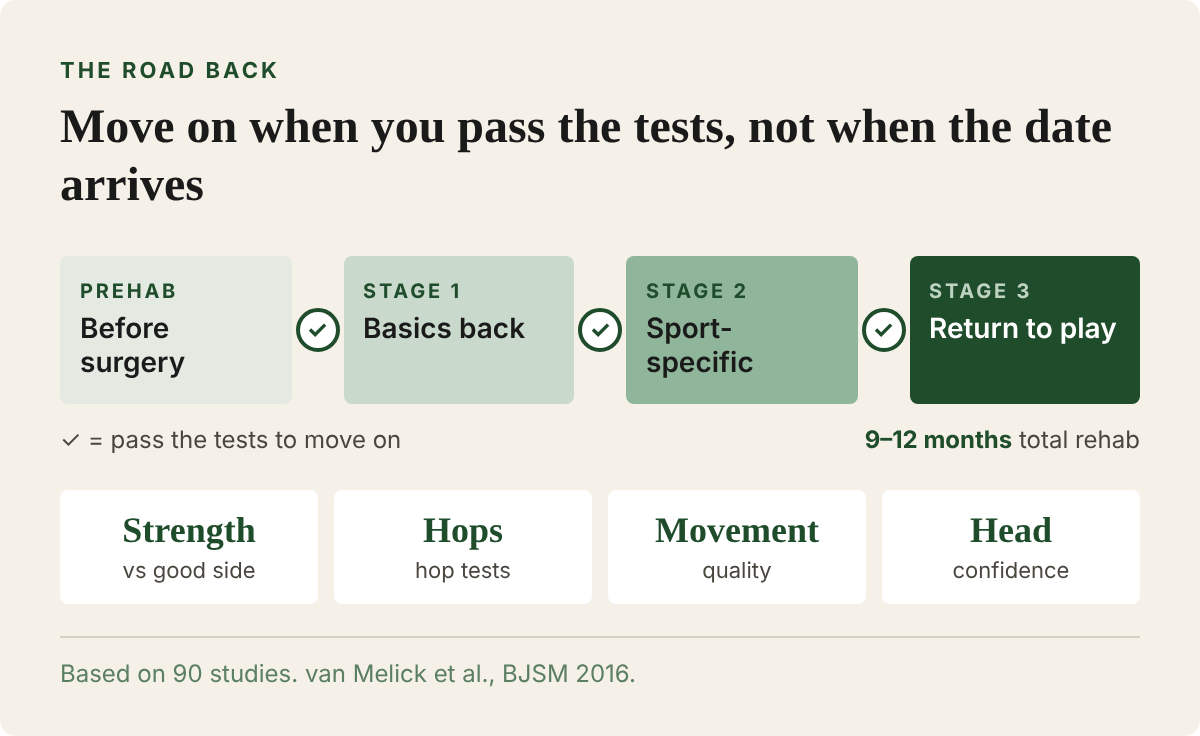
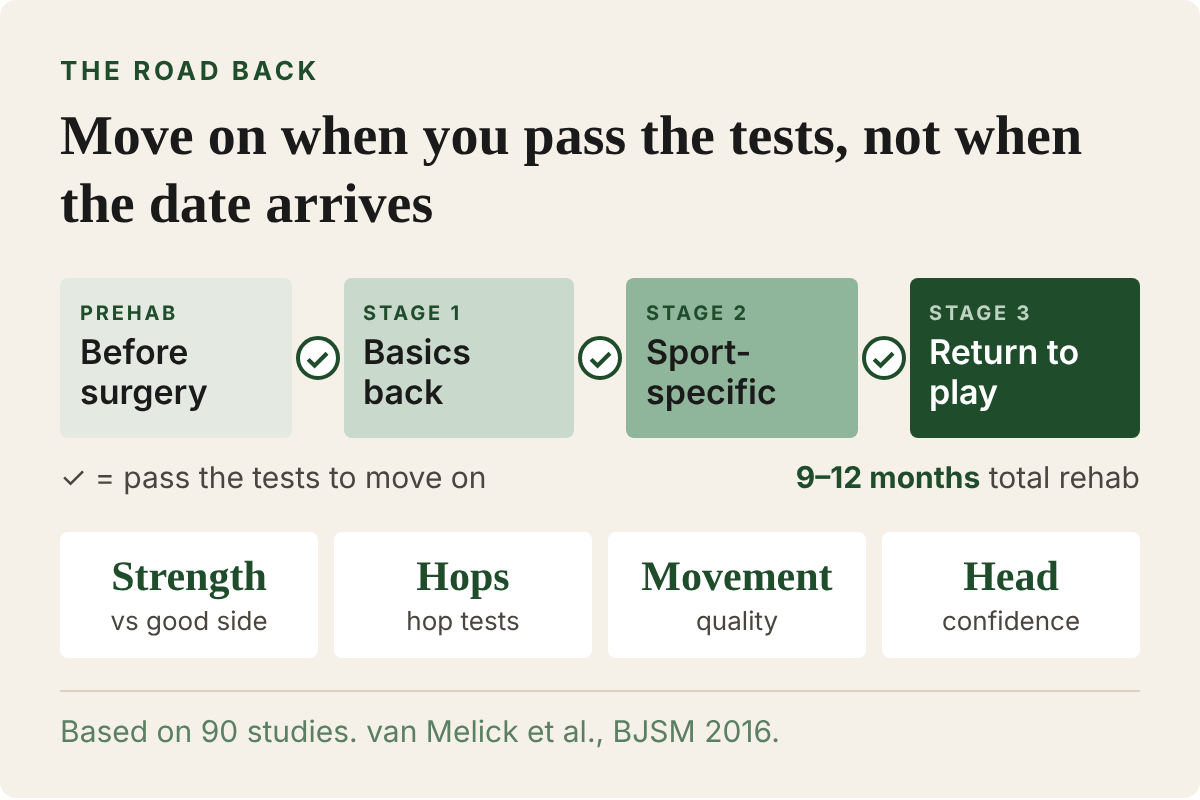
Larger chart text for phones; add image sources
Claude-Session: https://claude.ai/code/session_017txqQhaPq2UqQYvjJB2J49

diff --git a/source/chart-nordic.html b/source/chart-nordic.html
@@ -1,0 +1,9 @@
+<!doctype html><html><head><meta charset="utf-8"><link rel="stylesheet" href="base.css"><style>.g{display:grid;grid-template-columns:repeat(10,20px);gap:4px}.g i{display:block;width:20px;height:20px;border-radius:4px}</style></head><body><div id="c"><div style="background:#F5F1E8;border-radius:8px;padding:28px 30px 24px">
+<div class="k" style="color:#1F4D2B">The numbers</div>
+<div class="serif" style="font-size:28px;font-weight:700;line-height:1.2;margin-top:8px">For every 100 hamstring injuries with usual training…</div>
+<div style="display:flex;gap:34px;margin-top:22px">
+<div><div style="font-size:16px;font-weight:600;color:#4A463F;margin-bottom:10px">Usual training</div><div class="g"><i style="background:#A39C8E"></i><i style="background:#A39C8E"></i><i style="background:#A39C8E"></i><i style="background:#A39C8E"></i><i style="background:#A39C8E"></i><i style="background:#A39C8E"></i><i style="background:#A39C8E"></i><i style="background:#A39C8E"></i><i style="background:#A39C8E"></i><i style="background:#A39C8E"></i><i style="background:#A39C8E"></i><i style="background:#A39C8E"></i><i style="background:#A39C8E"></i><i style="background:#A39C8E"></i><i style="background:#A39C8E"></i><i style="background:#A39C8E"></i><i style="background:#A39C8E"></i><i style="background:#A39C8E"></i><i style="background:#A39C8E"></i><i style="background:#A39C8E"></i><i style="background:#A39C8E"></i><i style="background:#A39C8E"></i><i style="background:#A39C8E"></i><i style="background:#A39C8E"></i><i style="background:#A39C8E"></i><i style="background:#A39C8E"></i><i style="background:#A39C8E"></i><i style="background:#A39C8E"></i><i style="background:#A39C8E"></i><i style="background:#A39C8E"></i><i style="background:#A39C8E"></i><i style="background:#A39C8E"></i><i style="background:#A39C8E"></i><i style="background:#A39C8E"></i><i style="background:#A39C8E"></i><i style="background:#A39C8E"></i><i style="background:#A39C8E"></i><i style="background:#A39C8E"></i><i style="background:#A39C8E"></i><i style="background:#A39C8E"></i><i style="background:#A39C8E"></i><i style="background:#A39C8E"></i><i style="background:#A39C8E"></i><i style="background:#A39C8E"></i><i style="background:#A39C8E"></i><i style="background:#A39C8E"></i><i style="background:#A39C8E"></i><i style="background:#A39C8E"></i><i style="background:#A39C8E"></i><i style="background:#A39C8E"></i><i style="background:#A39C8E"></i><i style="background:#A39C8E"></i><i style="background:#A39C8E"></i><i style="background:#A39C8E"></i><i style="background:#A39C8E"></i><i style="background:#A39C8E"></i><i style="background:#A39C8E"></i><i style="background:#A39C8E"></i><i style="background:#A39C8E"></i><i style="background:#A39C8E"></i><i style="background:#A39C8E"></i><i style="background:#A39C8E"></i><i style="background:#A39C8E"></i><i style="background:#A39C8E"></i><i style="background:#A39C8E"></i><i style="background:#A39C8E"></i><i style="background:#A39C8E"></i><i style="background:#A39C8E"></i><i style="background:#A39C8E"></i><i style="background:#A39C8E"></i><i style="background:#A39C8E"></i><i style="background:#A39C8E"></i><i style="background:#A39C8E"></i><i style="background:#A39C8E"></i><i style="background:#A39C8E"></i><i style="background:#A39C8E"></i><i style="background:#A39C8E"></i><i style="background:#A39C8E"></i><i style="background:#A39C8E"></i><i style="background:#A39C8E"></i><i style="background:#A39C8E"></i><i style="background:#A39C8E"></i><i style="background:#A39C8E"></i><i style="background:#A39C8E"></i><i style="background:#A39C8E"></i><i style="background:#A39C8E"></i><i style="background:#A39C8E"></i><i style="background:#A39C8E"></i><i style="background:#A39C8E"></i><i style="background:#A39C8E"></i><i style="background:#A39C8E"></i><i style="background:#A39C8E"></i><i style="background:#A39C8E"></i><i style="background:#A39C8E"></i><i style="background:#A39C8E"></i><i style="background:#A39C8E"></i><i style="background:#A39C8E"></i><i style="background:#A39C8E"></i><i style="background:#A39C8E"></i><i style="background:#A39C8E"></i></div>
+<div style="margin-top:10px"><span class="serif" style="font-size:36px;font-weight:700;color:#4A463F">100</span> <span style="font-size:16px;color:#4A463F">injuries</span></div></div>
+<div><div style="font-size:16px;font-weight:600;color:#1F4D2B;margin-bottom:10px">With the Nordic curl</div><div class="g"><i style="background:#1F4D2B"></i><i style="background:#1F4D2B"></i><i style="background:#1F4D2B"></i><i style="background:#1F4D2B"></i><i style="background:#1F4D2B"></i><i style="background:#1F4D2B"></i><i style="background:#1F4D2B"></i><i style="background:#1F4D2B"></i><i style="background:#1F4D2B"></i><i style="background:#1F4D2B"></i><i style="background:#1F4D2B"></i><i style="background:#1F4D2B"></i><i style="background:#1F4D2B"></i><i style="background:#1F4D2B"></i><i style="background:#1F4D2B"></i><i style="background:#1F4D2B"></i><i style="background:#1F4D2B"></i><i style="background:#1F4D2B"></i><i style="background:#1F4D2B"></i><i style="background:#1F4D2B"></i><i style="background:#1F4D2B"></i><i style="background:#1F4D2B"></i><i style="background:#1F4D2B"></i><i style="background:#1F4D2B"></i><i style="background:#1F4D2B"></i><i style="background:#1F4D2B"></i><i style="background:#1F4D2B"></i><i style="background:#1F4D2B"></i><i style="background:#1F4D2B"></i><i style="background:#1F4D2B"></i><i style="background:#1F4D2B"></i><i style="background:#1F4D2B"></i><i style="background:#1F4D2B"></i><i style="background:#1F4D2B"></i><i style="background:#1F4D2B"></i><i style="background:#1F4D2B"></i><i style="background:#1F4D2B"></i><i style="background:#1F4D2B"></i><i style="background:#1F4D2B"></i><i style="background:#1F4D2B"></i><i style="background:#1F4D2B"></i><i style="background:#1F4D2B"></i><i style="background:#1F4D2B"></i><i style="background:#1F4D2B"></i><i style="background:#1F4D2B"></i><i style="background:#1F4D2B"></i><i style="background:#1F4D2B"></i><i style="background:#1F4D2B"></i><i style="background:#1F4D2B"></i><i style="background:transparent;box-shadow:inset 0 0 0 1.5px #5B7F63"></i><i style="background:transparent;box-shadow:inset 0 0 0 1.5px #5B7F63"></i><i style="background:transparent;box-shadow:inset 0 0 0 1.5px #5B7F63"></i><i style="background:transparent;box-shadow:inset 0 0 0 1.5px #5B7F63"></i><i style="background:transparent;box-shadow:inset 0 0 0 1.5px #5B7F63"></i><i style="background:transparent;box-shadow:inset 0 0 0 1.5px #5B7F63"></i><i style="background:transparent;box-shadow:inset 0 0 0 1.5px #5B7F63"></i><i style="background:transparent;box-shadow:inset 0 0 0 1.5px #5B7F63"></i><i style="background:transparent;box-shadow:inset 0 0 0 1.5px #5B7F63"></i><i style="background:transparent;box-shadow:inset 0 0 0 1.5px #5B7F63"></i><i style="background:transparent;box-shadow:inset 0 0 0 1.5px #5B7F63"></i><i style="background:transparent;box-shadow:inset 0 0 0 1.5px #5B7F63"></i><i style="background:transparent;box-shadow:inset 0 0 0 1.5px #5B7F63"></i><i style="background:transparent;box-shadow:inset 0 0 0 1.5px #5B7F63"></i><i style="background:transparent;box-shadow:inset 0 0 0 1.5px #5B7F63"></i><i style="background:transparent;box-shadow:inset 0 0 0 1.5px #5B7F63"></i><i style="background:transparent;box-shadow:inset 0 0 0 1.5px #5B7F63"></i><i style="background:transparent;box-shadow:inset 0 0 0 1.5px #5B7F63"></i><i style="background:transparent;box-shadow:inset 0 0 0 1.5px #5B7F63"></i><i style="background:transparent;box-shadow:inset 0 0 0 1.5px #5B7F63"></i><i style="background:transparent;box-shadow:inset 0 0 0 1.5px #5B7F63"></i><i style="background:transparent;box-shadow:inset 0 0 0 1.5px #5B7F63"></i><i style="background:transparent;box-shadow:inset 0 0 0 1.5px #5B7F63"></i><i style="background:transparent;box-shadow:inset 0 0 0 1.5px #5B7F63"></i><i style="background:transparent;box-shadow:inset 0 0 0 1.5px #5B7F63"></i><i style="background:transparent;box-shadow:inset 0 0 0 1.5px #5B7F63"></i><i style="background:transparent;box-shadow:inset 0 0 0 1.5px #5B7F63"></i><i style="background:transparent;box-shadow:inset 0 0 0 1.5px #5B7F63"></i><i style="background:transparent;box-shadow:inset 0 0 0 1.5px #5B7F63"></i><i style="background:transparent;box-shadow:inset 0 0 0 1.5px #5B7F63"></i><i style="background:transparent;box-shadow:inset 0 0 0 1.5px #5B7F63"></i><i style="background:transparent;box-shadow:inset 0 0 0 1.5px #5B7F63"></i><i style="background:transparent;box-shadow:inset 0 0 0 1.5px #5B7F63"></i><i style="background:transparent;box-shadow:inset 0 0 0 1.5px #5B7F63"></i><i style="background:transparent;box-shadow:inset 0 0 0 1.5px #5B7F63"></i><i style="background:transparent;box-shadow:inset 0 0 0 1.5px #5B7F63"></i><i style="background:transparent;box-shadow:inset 0 0 0 1.5px #5B7F63"></i><i style="background:transparent;box-shadow:inset 0 0 0 1.5px #5B7F63"></i><i style="background:transparent;box-shadow:inset 0 0 0 1.5px #5B7F63"></i><i style="background:transparent;box-shadow:inset 0 0 0 1.5px #5B7F63"></i><i style="background:transparent;box-shadow:inset 0 0 0 1.5px #5B7F63"></i><i style="background:transparent;box-shadow:inset 0 0 0 1.5px #5B7F63"></i><i style="background:transparent;box-shadow:inset 0 0 0 1.5px #5B7F63"></i><i style="background:transparent;box-shadow:inset 0 0 0 1.5px #5B7F63"></i><i style="background:transparent;box-shadow:inset 0 0 0 1.5px #5B7F63"></i><i style="background:transparent;box-shadow:inset 0 0 0 1.5px #5B7F63"></i><i style="background:transparent;box-shadow:inset 0 0 0 1.5px #5B7F63"></i><i style="background:transparent;box-shadow:inset 0 0 0 1.5px #5B7F63"></i><i style="background:transparent;box-shadow:inset 0 0 0 1.5px #5B7F63"></i><i style="background:transparent;box-shadow:inset 0 0 0 1.5px #5B7F63"></i><i style="background:transparent;box-shadow:inset 0 0 0 1.5px #5B7F63"></i></div>
+<div style="margin-top:10px"><span class="serif" style="font-size:36px;font-weight:700;color:#1F4D2B">49</span> <span style="font-size:16px;color:#1F4D2B">injuries · <b>51 avoided</b></span></div></div></div>
+<div style="font-size:15px;color:#5B7F63;margin-top:16px;border-top:1px solid #D9D2C3;padding-top:10px">Each square is one injury. Risk ratio 0.49, 15 studies, 8,459 athletes. van Dyk et al., BJSM 2019.</div></div></div></body></html>

diff --git a/source/chart-acl.html b/source/chart-acl.html
@@ -1,0 +1,8 @@
+<!doctype html><html><head><meta charset="utf-8"><link rel="stylesheet" href="base.css"><style></style></head><body><div id="c"><div style="background:#F5F1E8;border-radius:8px;padding:28px 30px 24px">
+<div class="k" style="color:#1F4D2B">The road back</div>
+<div class="serif" style="font-size:28px;font-weight:700;line-height:1.2;margin-top:8px">Move on when you pass the tests, not when the date arrives</div>
+<div style="display:flex;margin-top:20px"><div style="flex:1;background:#E4E9E2;padding:12px 10px;border-radius:4px"><div class="k" style="font-size:10px;color:#1F4D2B">Prehab</div><div style="font-size:17px;font-weight:600;color:#1A1A1A;margin-top:4px">Before surgery</div></div><div style="width:26px;display:flex;flex-direction:column;align-items:center;justify-content:center"><div style="width:22px;height:22px;border-radius:50%;background:#fff;border:2px solid #1F4D2B;display:flex;align-items:center;justify-content:center;font-size:15px;font-weight:700;color:#1F4D2B">✓</div></div><div style="flex:1;background:#C9D9CC;padding:12px 10px;border-radius:4px"><div class="k" style="font-size:10px;color:#1F4D2B">Stage 1</div><div style="font-size:17px;font-weight:600;color:#1A1A1A;margin-top:4px">Basics back</div></div><div style="width:26px;display:flex;flex-direction:column;align-items:center;justify-content:center"><div style="width:22px;height:22px;border-radius:50%;background:#fff;border:2px solid #1F4D2B;display:flex;align-items:center;justify-content:center;font-size:15px;font-weight:700;color:#1F4D2B">✓</div></div><div style="flex:1;background:#8FB59A;padding:12px 10px;border-radius:4px"><div class="k" style="font-size:10px;color:#1F4D2B">Stage 2</div><div style="font-size:17px;font-weight:600;color:#1A1A1A;margin-top:4px">Sport-specific</div></div><div style="width:26px;display:flex;flex-direction:column;align-items:center;justify-content:center"><div style="width:22px;height:22px;border-radius:50%;background:#fff;border:2px solid #1F4D2B;display:flex;align-items:center;justify-content:center;font-size:15px;font-weight:700;color:#1F4D2B">✓</div></div><div style="flex:1;background:#1F4D2B;padding:12px 10px;border-radius:4px"><div class="k" style="font-size:10px;color:#BFD3C3">Stage 3</div><div style="font-size:17px;font-weight:600;color:#fff;margin-top:4px">Return to play</div></div></div>
+<div style="display:flex;justify-content:space-between;font-size:15px;color:#4A463F;margin-top:10px"><span>✓ = pass the tests to move on</span><span><b style="color:#1F4D2B">9–12 months</b> total rehab</span></div>
+<div style="display:grid;grid-template-columns:repeat(4,1fr);gap:8px;margin-top:18px">
+<div style="background:#fff;border-radius:4px;padding:10px;text-align:center"><div class="serif" style="font-size:21px;font-weight:700;color:#1F4D2B">Strength</div><div style="font-size:13px;color:#4A463F;margin-top:2px">vs good side</div></div><div style="background:#fff;border-radius:4px;padding:10px;text-align:center"><div class="serif" style="font-size:21px;font-weight:700;color:#1F4D2B">Hops</div><div style="font-size:13px;color:#4A463F;margin-top:2px">hop tests</div></div><div style="background:#fff;border-radius:4px;padding:10px;text-align:center"><div class="serif" style="font-size:21px;font-weight:700;color:#1F4D2B">Movement</div><div style="font-size:13px;color:#4A463F;margin-top:2px">quality</div></div><div style="background:#fff;border-radius:4px;padding:10px;text-align:center"><div class="serif" style="font-size:21px;font-weight:700;color:#1F4D2B">Head</div><div style="font-size:13px;color:#4A463F;margin-top:2px">confidence</div></div></div>
+<div style="font-size:15px;color:#5B7F63;margin-top:16px;border-top:1px solid #D9D2C3;padding-top:10px">Based on 90 studies. van Melick et al., BJSM 2016.</div></div></div></body></html>

diff --git a/source/chart-strength.html b/source/chart-strength.html
@@ -1,0 +1,17 @@
+<!doctype html><html><head><meta charset="utf-8"><link rel="stylesheet" href="base.css"><style></style></head><body><div id="c"><div style="background:#F5F1E8;border-radius:8px;padding:28px 30px 24px">
+<div class="k" style="color:#1F4D2B">The numbers</div>
+<div class="serif" style="font-size:28px;font-weight:700;line-height:1.2;margin-top:8px">Injuries for every 100 you'd expect with no programme</div>
+<div style="margin-top:8px;border-left:1px solid #CFC7B6;margin-left:177px;padding-left:0"></div><div style="display:grid;grid-template-columns:165px 1fr;align-items:center;gap:12px;margin-top:14px">
+<div style="font-size:17px;font-weight:600;color:#4A463F">No programme</div>
+<div style="display:flex;align-items:center;gap:10px"><div style="height:30px;width:280px;background:#A39C8E;border-radius:0 4px 4px 0"></div>
+<span class="serif" style="font-size:27px;font-weight:700;color:#4A463F">100</span></div></div><div style="display:grid;grid-template-columns:165px 1fr;align-items:center;gap:12px;margin-top:14px">
+<div style="font-size:17px;font-weight:600;color:#4A463F">Stretching</div>
+<div style="display:flex;align-items:center;gap:10px"><div style="height:30px;width:269px;background:#A39C8E;border-radius:0 4px 4px 0"></div>
+<span class="serif" style="font-size:27px;font-weight:700;color:#4A463F">96</span><span style="font-size:15px;color:#5B7F63">no clear effect</span></div></div><div style="display:grid;grid-template-columns:165px 1fr;align-items:center;gap:12px;margin-top:14px">
+<div style="font-size:17px;font-weight:600;color:#1A1A1A">Balance training</div>
+<div style="display:flex;align-items:center;gap:10px"><div style="height:30px;width:155px;background:#5B7F63;border-radius:0 4px 4px 0"></div>
+<span class="serif" style="font-size:27px;font-weight:700;color:#1A1A1A">55</span></div></div><div style="display:grid;grid-template-columns:165px 1fr;align-items:center;gap:12px;margin-top:14px">
+<div style="font-size:17px;font-weight:600;color:#1F4D2B">Strength training</div>
+<div style="display:flex;align-items:center;gap:10px"><div style="height:30px;width:90px;background:#1F4D2B;border-radius:0 4px 4px 0"></div>
+<span class="serif" style="font-size:27px;font-weight:700;color:#1F4D2B">32</span><span style="font-size:15px;color:#5B7F63">best result</span></div></div>
+<div style="font-size:15px;color:#5B7F63;margin-top:18px;border-top:1px solid #D9D2C3;padding-top:10px">Shorter bar is better. Risk ratios 0.96, 0.55, 0.32. 25 trials, 26,610 athletes. Lauersen et al., BJSM 2014.</div></div></div></body></html>

diff --git a/source/mast-monday.html b/source/mast-monday.html
@@ -1,0 +1,9 @@
+<!doctype html><html><head><meta charset="utf-8"><link rel="stylesheet" href="base.css"><style></style></head><body><div id="c"><div style="position:relative;height:220px;background:#1F4D2B;border-radius:8px;overflow:hidden"><svg width="600" height="220" viewBox="0 0 600 220" style="position:absolute;inset:0" fill="none" stroke="#FFFFFF" stroke-opacity=".09" stroke-width="2">
+<rect x="20" y="20" width="560" height="180" rx="2"/><line x1="300" y1="20" x2="300" y2="200"/><circle cx="300" cy="110" r="44"/>
+<rect x="20" y="62" width="70" height="96"/><rect x="510" y="62" width="70" height="96"/><circle cx="300" cy="110" r="3" fill="#fff" fill-opacity=".12"/></svg>
+<div style="position:absolute;left:36px;top:34px;right:36px">
+<div class="k" style="color:#BFD3C3">Monday digest</div>
+<div class="serif" style="color:#fff;font-size:46px;font-weight:700;line-height:1.02;margin-top:14px">The Sports<br>Forum</div>
+<div style="color:#E9E3D3;font-size:14px;margin-top:16px">One study · one coach tip · one athlete story</div></div>
+<div style="position:absolute;right:36px;bottom:30px;width:64px;height:64px;border-radius:50%;background:#F5F1E8;display:flex;align-items:center;justify-content:center">
+<span class="serif" style="color:#1F4D2B;font-weight:700;font-size:26px">SF</span></div></div></div></body></html>

diff --git a/source/mast-wednesday.html b/source/mast-wednesday.html
@@ -1,0 +1,9 @@
+<!doctype html><html><head><meta charset="utf-8"><link rel="stylesheet" href="base.css"><style></style></head><body><div id="c"><div style="position:relative;height:220px;background:#1F4D2B;border-radius:8px;overflow:hidden"><svg width="600" height="220" viewBox="0 0 600 220" style="position:absolute;inset:0" fill="none" stroke="#FFFFFF" stroke-opacity=".09" stroke-width="2">
+<rect x="20" y="20" width="560" height="180" rx="2"/><line x1="300" y1="20" x2="300" y2="200"/><circle cx="300" cy="110" r="44"/>
+<rect x="20" y="62" width="70" height="96"/><rect x="510" y="62" width="70" height="96"/><circle cx="300" cy="110" r="3" fill="#fff" fill-opacity=".12"/></svg>
+<div style="position:absolute;left:36px;top:34px;right:36px">
+<div class="k" style="color:#BFD3C3">Wednesday deep dive</div>
+<div class="serif" style="color:#fff;font-size:46px;font-weight:700;line-height:1.02;margin-top:14px">The Sports<br>Forum</div>
+<div style="color:#E9E3D3;font-size:14px;margin-top:16px">One big question, with a guest expert</div></div>
+<div style="position:absolute;right:36px;bottom:30px;width:64px;height:64px;border-radius:50%;background:#F5F1E8;display:flex;align-items:center;justify-content:center">
+<span class="serif" style="color:#1F4D2B;font-weight:700;font-size:26px">SF</span></div></div></div></body></html>

diff --git a/source/mast-friday.html b/source/mast-friday.html
@@ -1,0 +1,9 @@
+<!doctype html><html><head><meta charset="utf-8"><link rel="stylesheet" href="base.css"><style></style></head><body><div id="c"><div style="position:relative;height:220px;background:#1F4D2B;border-radius:8px;overflow:hidden"><svg width="600" height="220" viewBox="0 0 600 220" style="position:absolute;inset:0" fill="none" stroke="#FFFFFF" stroke-opacity=".09" stroke-width="2">
+<rect x="20" y="20" width="560" height="180" rx="2"/><line x1="300" y1="20" x2="300" y2="200"/><circle cx="300" cy="110" r="44"/>
+<rect x="20" y="62" width="70" height="96"/><rect x="510" y="62" width="70" height="96"/><circle cx="300" cy="110" r="3" fill="#fff" fill-opacity=".12"/></svg>
+<div style="position:absolute;left:36px;top:34px;right:36px">
+<div class="k" style="color:#BFD3C3">Friday myth-buster</div>
+<div class="serif" style="color:#fff;font-size:46px;font-weight:700;line-height:1.02;margin-top:14px">The Sports<br>Forum</div>
+<div style="color:#E9E3D3;font-size:14px;margin-top:16px">One myth, busted with the research</div></div>
+<div style="position:absolute;right:36px;bottom:30px;width:64px;height:64px;border-radius:50%;background:#F5F1E8;display:flex;align-items:center;justify-content:center">
+<span class="serif" style="color:#1F4D2B;font-weight:700;font-size:26px">SF</span></div></div></div></body></html>

diff --git a/source/render.js b/source/render.js
@@ -1,0 +1,5 @@
+const { chromium } = require('playwright');
+(async()=>{const b=await chromium.launch({executablePath:'/opt/pw-browsers/chromium'});
+const p=await b.newPage({viewport:{width:600,height:800},deviceScaleFactor:2});
+for(const n of process.argv.slice(2)){await p.goto('file://'+__dirname+'/'+n+'.html');await (await p.$('#c')).screenshot({path:__dirname+'/'+n+'.png'});}
+await b.close()})();

diff --git a/source/base.css b/source/base.css
@@ -1,0 +1,5 @@
+*{margin:0;padding:0;box-sizing:border-box}
+body{background:#fff}
+#c{width:600px;font-family:Inter,sans-serif;color:#1A1A1A}
+.serif{font-family:'Bitstream Charter',Charter,Georgia,serif}
+.k{font-size:13px;letter-spacing:.14em;font-weight:700;text-transform:uppercase}
